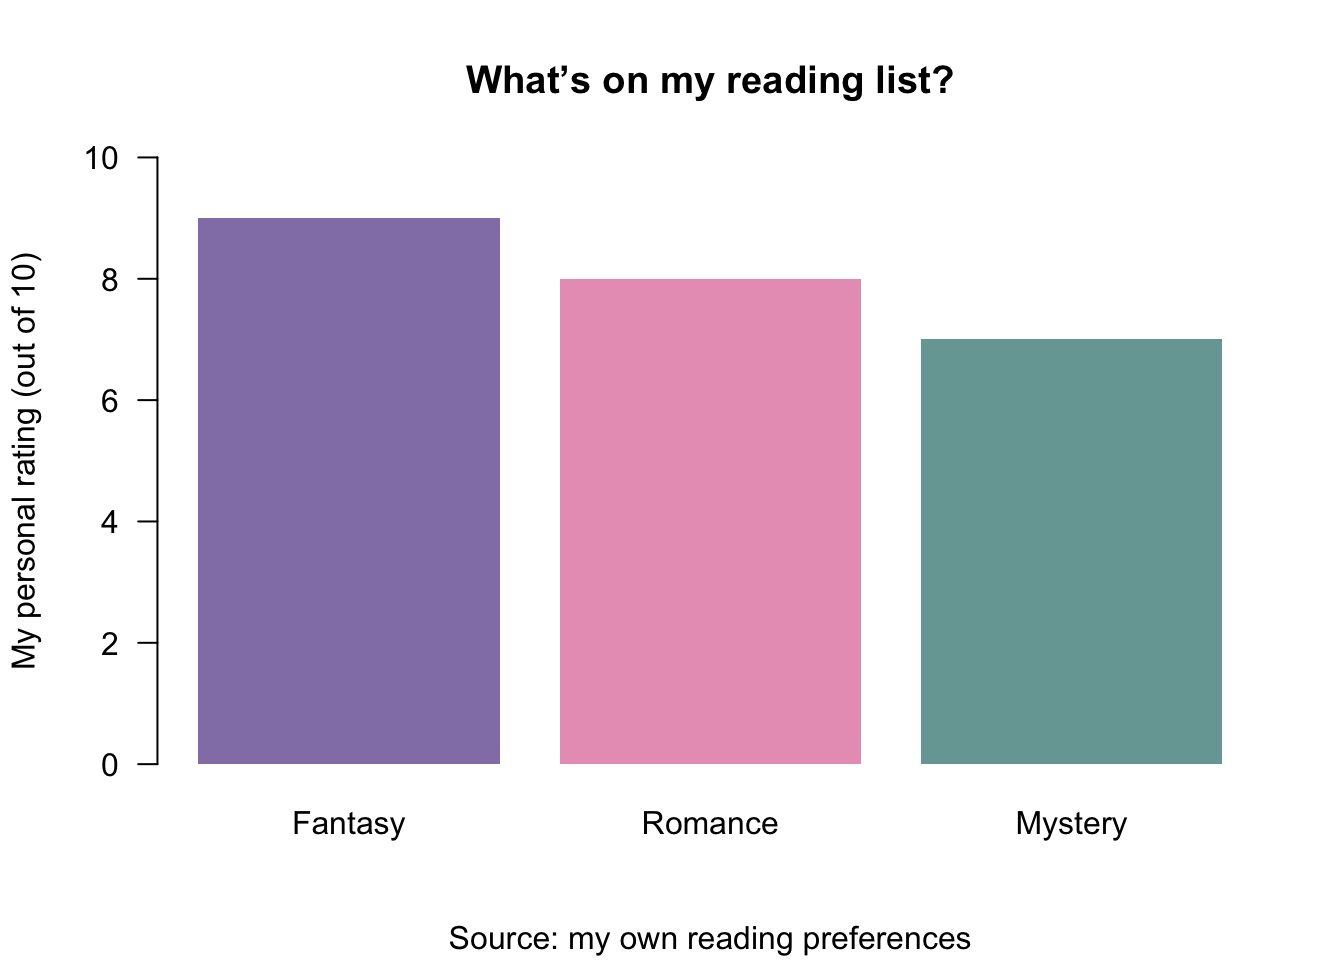
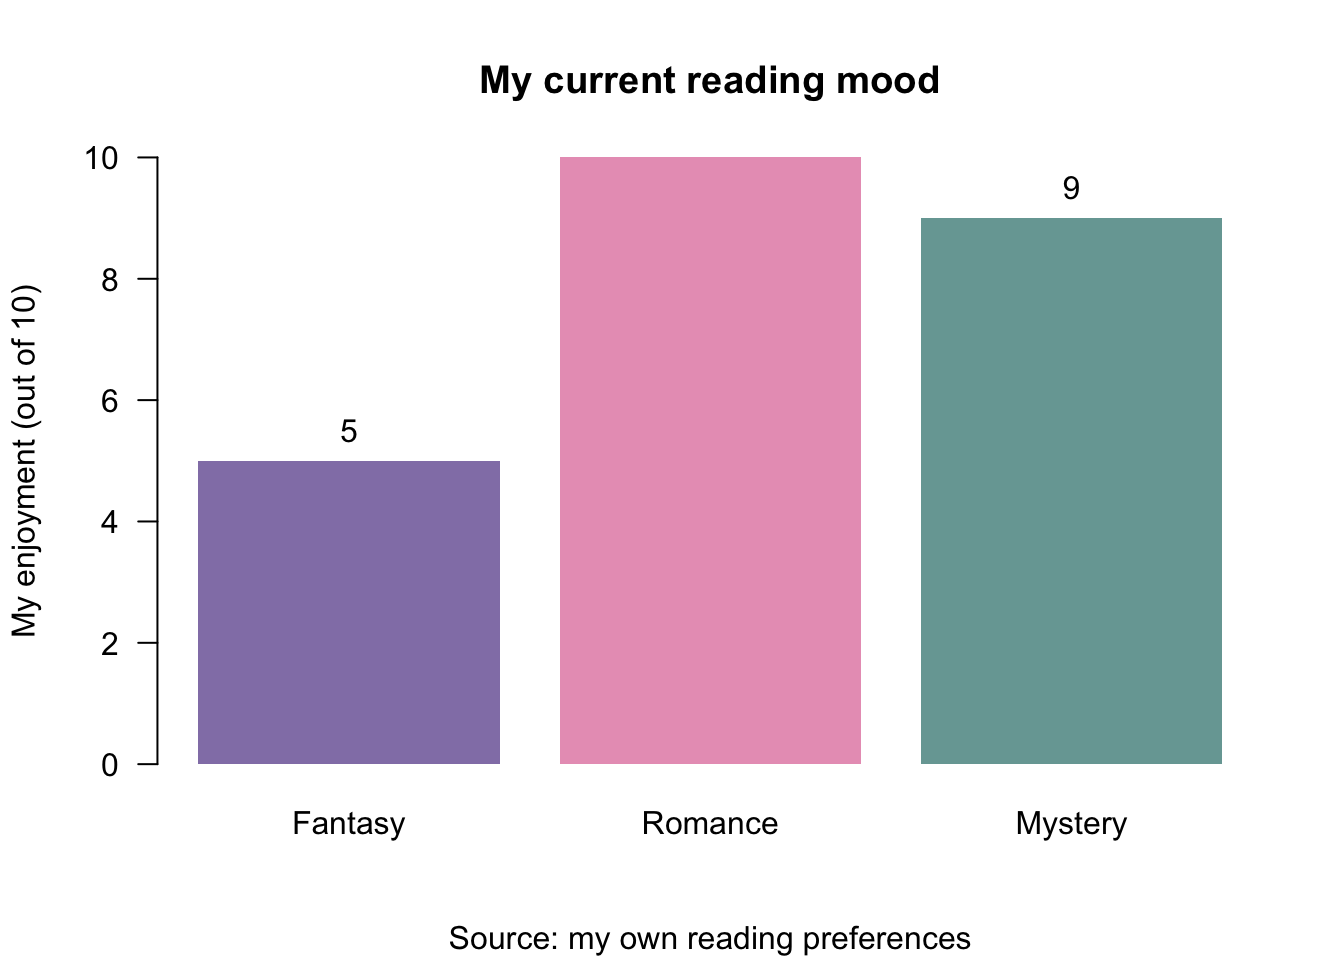
update home page

diff --git a/docs/index.html b/docs/index.html
@@ -127,13 +127,14 @@ ul.task-list li input[type="checkbox"] {
 </figure>
 </div>
 <p>Hi, I’m Pratistha Regmi! I’m a Business Analytics master’s student at Baruch College, and I enjoy finding the story behind the numbers. My background in business and event operations taught me to ask practical questions; now I’m learning how to answer them with data. This site is where I’ll share my STA 9750 projects, what I discover along the way, and a little of my personality too.</p>
-<section id="my-reading-mood" class="level2">
-<h2 class="anchored" data-anchor-id="my-reading-mood">My reading mood 📚</h2>
+<section id="my-current-reading-mood" class="level2">
+<h2 class="anchored" data-anchor-id="my-current-reading-mood">My current reading mood 📚</h2>
+<p>I’m currently on the third book in the ACOTAR series, so fantasy and romance are definitely leading my reading mood right now, with a little mystery to keep things interesting! The chart below shows my personal rating for each genre out of 10.</p>
 <div class="cell">
 <div class="cell-output-display">
 <div>
 <figure class="figure">
-<p><img src="index_files/figure-html/unnamed-chunk-1-1.png" class="img-fluid figure-img" alt="Bar chart of my personal reading preferences, rated out of ten." width="672"></p>
+<p><img src="index_files/figure-html/unnamed-chunk-1-1.png" class="img-fluid figure-img" alt="Personal enjoyment ratings: fantasy nine, romance eight, and mystery seven out of ten." width="672"></p>
 </figure>
 </div>
 </div>
